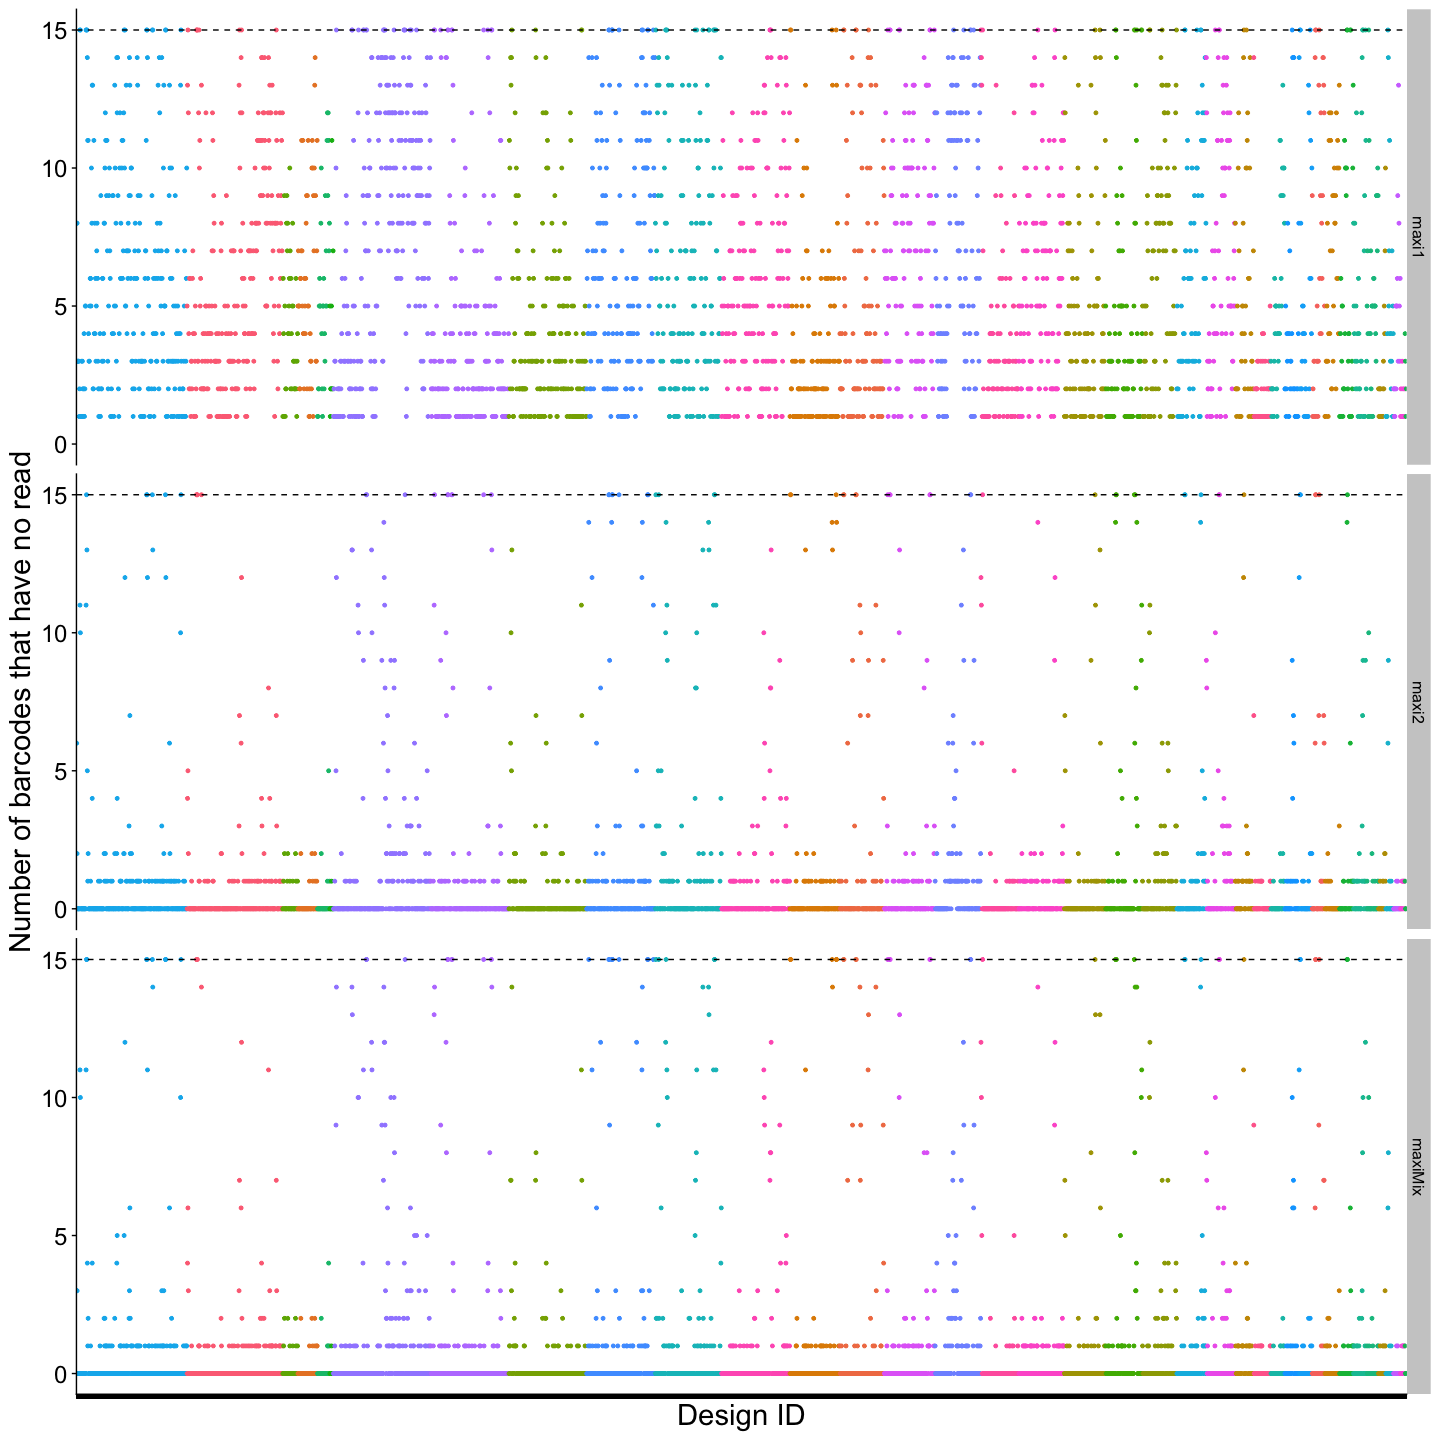
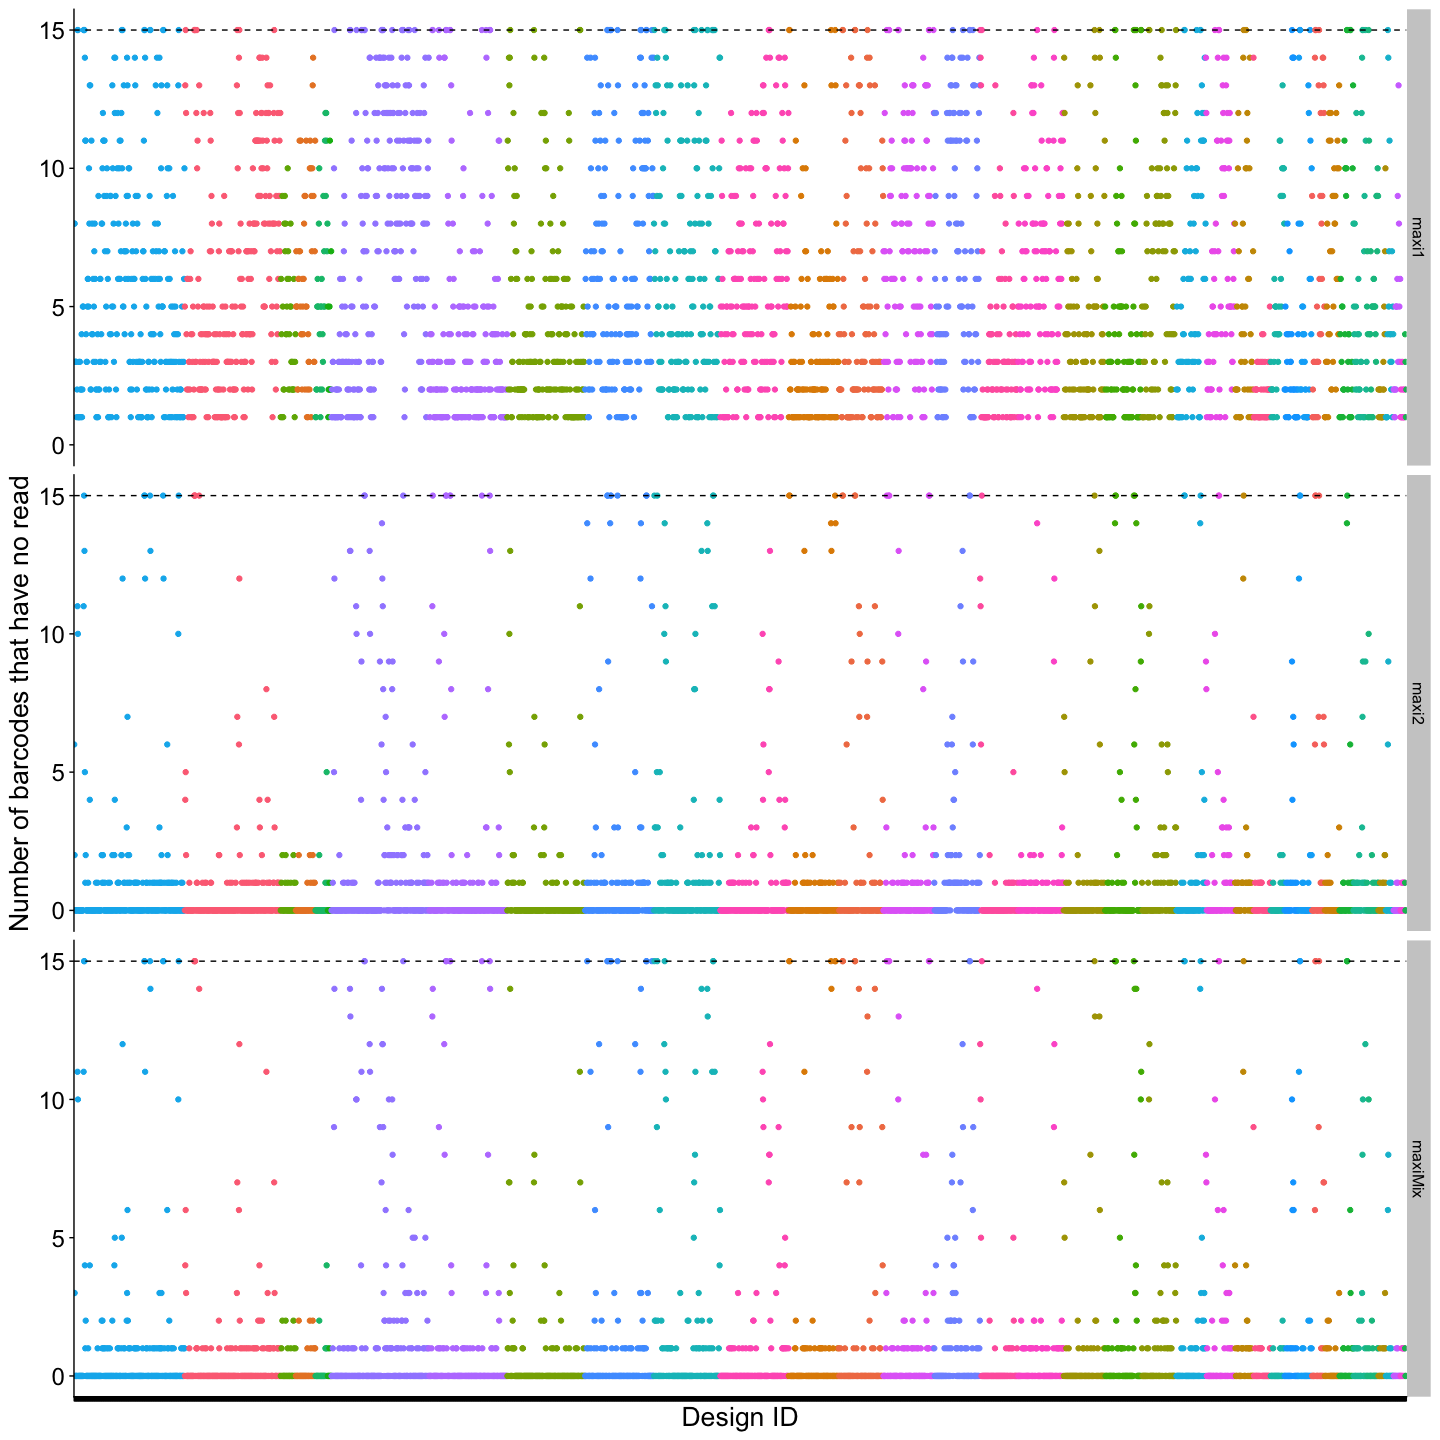
Update for histogram

diff --git a/representation.md b/representation.md
@@ -2,6 +2,11 @@ Representation of oligos
 ================
 Taeyoung Hwang
 
+This R script shows an example of how to check the representation of
+oligos after ePCR/Cloning/Transfection.
+
+# 0\. Libraries required
+
 ``` r
 library(ggplot2)
 library(cowplot)
@@ -54,19 +59,19 @@ align.qc[["Unmapped"]] / align.qc[["Total"]]
 
 ### Mapped rate
 
-barplot
+Barplot
 
 ``` r
 p <- ggplot(subset(align.qc[["Mapped"]], MismatchNum>=0), aes(x=MismatchNum, y=Prop)) + facet_grid(.~Sample)
 p <- p + geom_point() + geom_line(linetype = "dashed")
 p <- p + xlab("Number of Mismatches") + ylab("Proportion of reads")
-p <- p + theme(axis.title = element_text(size=22), axis.text=element_text(size=18))
+p <- p + theme(axis.title = element_text(size=20), axis.text=element_text(size=18))
 p + ggtitle("Barcoded reads with mismatches")
 ```
 
 ![](representation_files/figure-gfm/unnamed-chunk-7-1.png)<!-- -->
 
-detail number
+Detail number of reads per mismatches whose proportion \> 1%
 
 ``` r
 subset(subset(align.qc[["Mapped"]], MismatchNum>=0), Prop>=0.01)
@@ -85,19 +90,6 @@ subset(subset(align.qc[["Mapped"]], MismatchNum>=0), Prop>=0.01)
 
 # 3\. Representation of oligos
 
-``` r
-lapply(count, dim)
-```
-
-    ## $maxi1
-    ## [1] 3741   15
-    ## 
-    ## $maxi2
-    ## [1] 3741   15
-    ## 
-    ## $maxiMix
-    ## [1] 3741   15
-
 ### Count matrix to table
 
 ``` r
@@ -114,7 +106,22 @@ idx <- match(count.table$designID, oligoPool.design$designID)
 count.table$gene_name <- oligoPool.design$gene_name[idx]
 ```
 
-### Number of barcodes that have 0 read
+### Distribution of reads per oligo
+
+``` r
+p <- ggplot(count.table, aes(log10(count+1))) + facet_grid(.~sample)
+p <- p + geom_histogram()
+p <- p + xlab("Log10 (count+1)") + ylab("Number of oligos")
+p <- p + theme(axis.title = element_text(size=20), axis.text=element_text(size=18))
+p + ggtitle("Distribution of oligos")
+```
+
+    ## `stat_bin()` using `bins = 30`. Pick better value with `binwidth`.
+
+![](representation_files/figure-gfm/unnamed-chunk-11-1.png)<!-- --> Note
+that this pool (EZH2) has 3714\*15=56115 oligos.
+
+### Number of barcodes that have no read per tile
 
 #### Plot
 
@@ -125,18 +132,18 @@ temp <- melt(temp, id.vars = "designID", variable.name = "sample", value.name="n
 temp$gene_name <- oligoPool.design$gene_name[match(temp$designID, oligoPool.design$designID)]
 
 p <- ggplot(temp, aes(x=designID, y=number)) + facet_grid(sample~.,)
-p <- p + geom_point(aes(col=gene_name), size=1)
+p <- p + geom_point(aes(col=gene_name), size=1.5)
 p <- p + ylim(0, ncol(count[[1]]))
 p <- p + geom_hline(yintercept = ncol(count[[1]]), linetype="dashed")
+p <- p + theme(axis.title = element_text(size=20), axis.text=element_text(size=18))
 p <- p + theme(axis.text.x=element_blank())
-p <- p + theme(axis.title = element_text(size=22), axis.text=element_text(size=18))
 p <- p + theme(legend.position="none")
 p + xlab("Design ID") + ylab("Number of barcodes that have no read")
 ```
 
-![](representation_files/figure-gfm/unnamed-chunk-12-1.png)<!-- -->
-colored by
-gene
+![](representation_files/figure-gfm/unnamed-chunk-12-1.png)<!-- --> Note
+that this pool (EZH2) has 15 barcodes per a tile. A color indicates a
+gene.
 
 #### Summary by gene: number of tiles whose y-axis values are zero in the plot
 
@@ -202,18 +209,18 @@ temp <- melt(temp, id.vars = "designID", variable.name = "sample", value.name="n
 temp$gene_name <- oligoPool.design$gene_name[match(temp$designID, oligoPool.design$designID)]
 
 p <- ggplot(temp, aes(x=designID, y=number)) + facet_grid(sample~.,)
-p <- p + geom_point(aes(col=gene_name), size=1)
+p <- p + geom_point(aes(col=gene_name), size=1.5)
 p <- p + ylim(0, ncol(count[[1]]))
 p <- p + geom_hline(yintercept = 10, linetype="dashed")
-p <- p + theme(axis.text.x=element_blank())
 p <- p + theme(axis.title = element_text(size=22), axis.text=element_text(size=18))
+p <- p + theme(axis.text.x=element_blank())
 p <- p + theme(legend.position="none")
 p + xlab("Design ID") + ylab("Number of barcodes whose counts >= 10")
 ```
 
-![](representation_files/figure-gfm/unnamed-chunk-14-1.png)<!-- --> -
-colored by
-gene
+![](representation_files/figure-gfm/unnamed-chunk-14-1.png)<!-- --> Note
+that this pool (EZH2) has 15 barcodes per a tile. A color indicates a
+gene.
 
 #### Summary by gene: number of tiles whose y-axis values are more than or equal to 10
 
